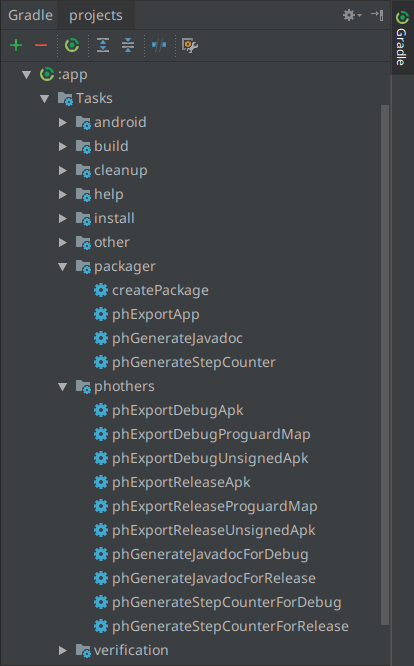
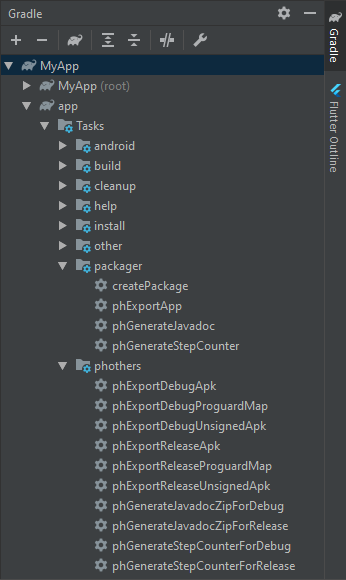
Updated sample and documentation

diff --git a/docs/README.md b/docs/README.md
@@ -255,7 +255,7 @@ android {
                 javadocMemberLevel = JavadocMemberLevel.PROTECTED
                 excludes = ["**/BuildConfig.java", "**/R.java", "**/internal/**"]
                 output = file("${rootProject.buildDir}/MyApp/App/${variant.dirName}/API_v${defaultConfig.versionName}.zip")
-                zip = true
+                zip = true // Archive the Javadoc into a zip file.
             }
         }
     }
@@ -314,8 +314,8 @@ android {
                 javadocTitle = libVariant.name
                 javadocMemberLevel = JavadocMemberLevel.PROTECTED
                 excludes = ["**/BuildConfig.java", "**/R.java", "**/internal/**"]
-                output = file("${rootProject.buildDir}/MyApp/Lib/${variant.dirName}/API_v${defaultConfig.versionName}.zip")
-                zip = true
+                output = file("${rootProject.buildDir}/MyApp/Lib/${variant.dirName}/API_v${defaultConfig.versionName}")
+                zip = false // Output the Javadoc to a folder instead of a zip file
             }
         }
     }
